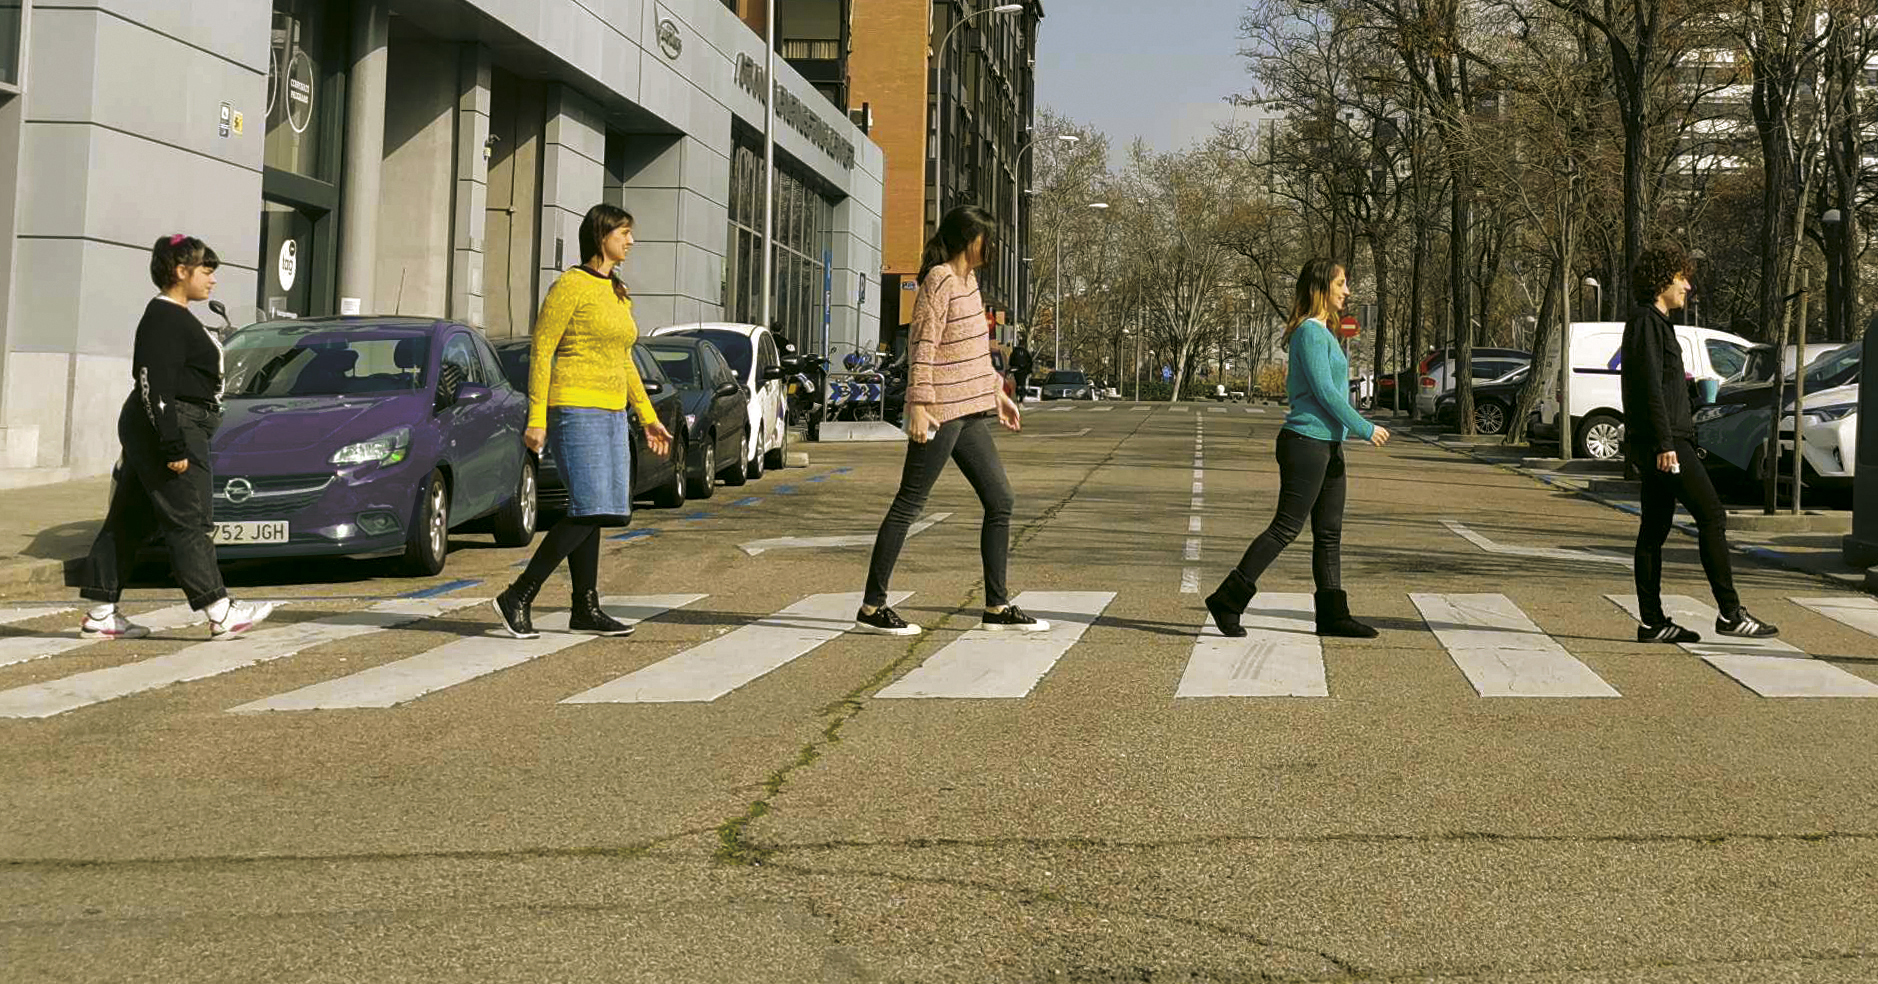
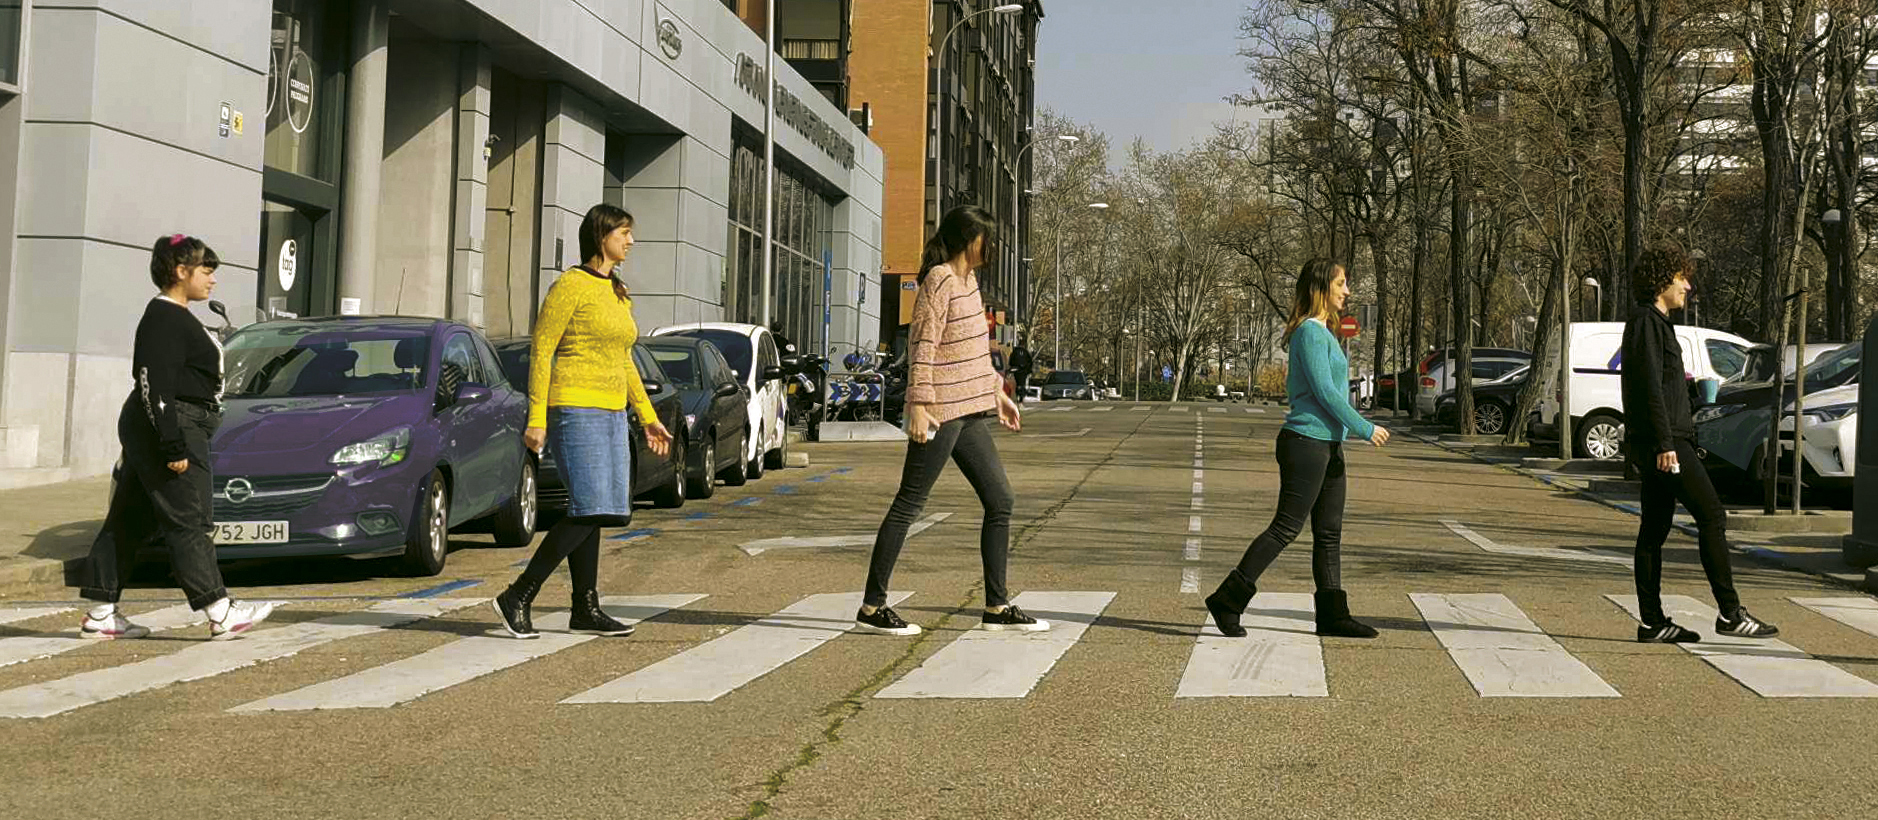
Add hero image for real

diff --git a/_src/templates/index.html b/_src/templates/index.html
@@ -18,7 +18,7 @@
       href="https://use.fontawesome.com/releases/v5.0.7/css/all.css"
       rel="stylesheet"
     />
-    <link rel="stylesheet" href="./assets/css/main.css"/>
+    <link rel="stylesheet" href="./assets/css/main.css" />
   </head>
 
   <body>
@@ -147,7 +147,8 @@
               <!-- ICONOS -->
               <div class="icons icons-odd">
                 <a
-                  href="https://www.linkedin.com/in/marketingdigitalmarberjon/">
+                  href="https://www.linkedin.com/in/marketingdigitalmarberjon/"
+                >
                   <div class="fab fa-linkedin-in"></div>
                 </a>
                 <a href="https://github.com/MargaritaBerjon">
@@ -203,7 +204,11 @@
           <!-- SARA -->
           <div class="adalaber adalaber-odd">
             <div class="photobox photobox-odd">
-              <img class="photo" src="./assets/images/sara.jpg" alt="Sara Juárez" />
+              <img
+                class="photo"
+                src="./assets/images/sara.jpg"
+                alt="Sara Juárez"
+              />
             </div>
             <div class="information">
               <h4 class="name name-odd">Sara Juárez Zarco</h4>
@@ -213,16 +218,15 @@
               </p>
               <!-- ICONOS -->
               <div class="icons icons-odd">
-              </a>
-              <a href="https://www.linkedin.com/in/sarajuarezzarco/">
-                <div class="fab fa-linkedin-in"></div>
-              </a>
-              <a href="https://github.com/SaraJuarez">
-                <div class="fab fa-github-alt"></div>
-              </a>
-              <a href="mailto: sarajuarezzarco@gmail.com">
-                <div class="fas fa-envelope"></div>
-              </a>
+                <a href="https://www.linkedin.com/in/sarajuarezzarco/">
+                  <div class="fab fa-linkedin-in"></div>
+                </a>
+                <a href="https://github.com/SaraJuarez">
+                  <div class="fab fa-github-alt"></div>
+                </a>
+                <a href="mailto: sarajuarezzarco@gmail.com">
+                  <div class="fas fa-envelope"></div>
+                </a>
               </div>
 
               <!-- ICONOS -->
@@ -231,7 +235,11 @@
           <!-- EVA -->
           <div class="adalaber adalaber-even">
             <div class="photobox photobox-even">
-              <img class="photo" src="./assets/images/eva.jpg" alt="Eva López" />
+              <img
+                class="photo"
+                src="./assets/images/eva.jpg"
+                alt="Eva López"
+              />
             </div>
             <div class="information">
               <h4 class="name name-even">Eva López Merino</h4>

diff --git a/_src/assets/scss/main.scss b/_src/assets/scss/main.scss
@@ -15,7 +15,7 @@ body {
 
 .hero-image {
   height: 412px;
-  background: url(../images/grupo-chicas.jpg) 50% center no-repeat;
+  background: url(../images/group.photo.jpg) 50% center no-repeat;
   background-size: cover;
   width: 100%;
 }
